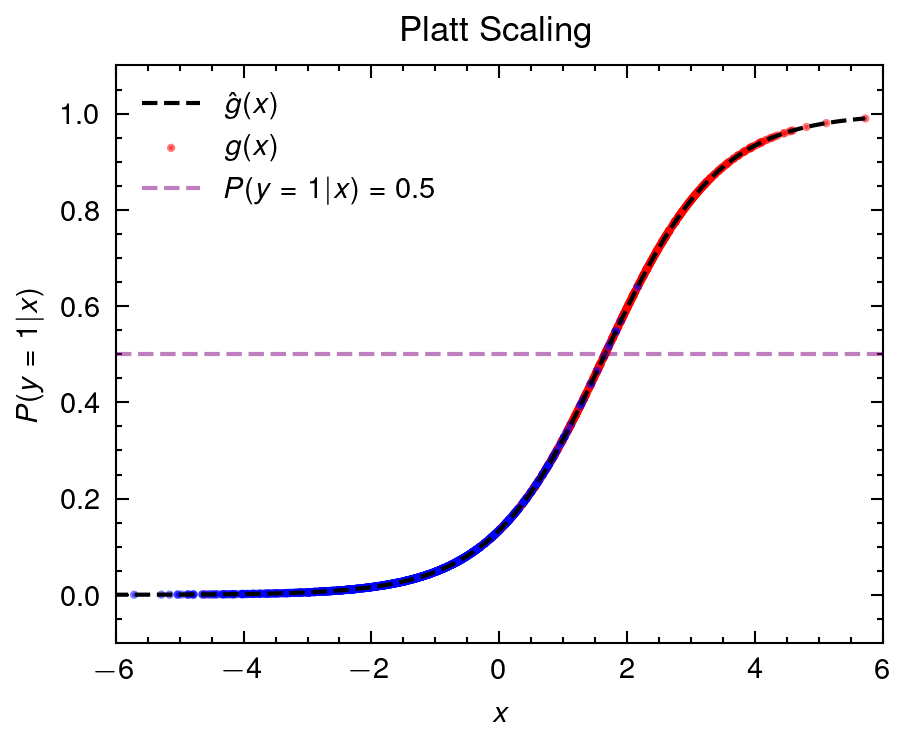
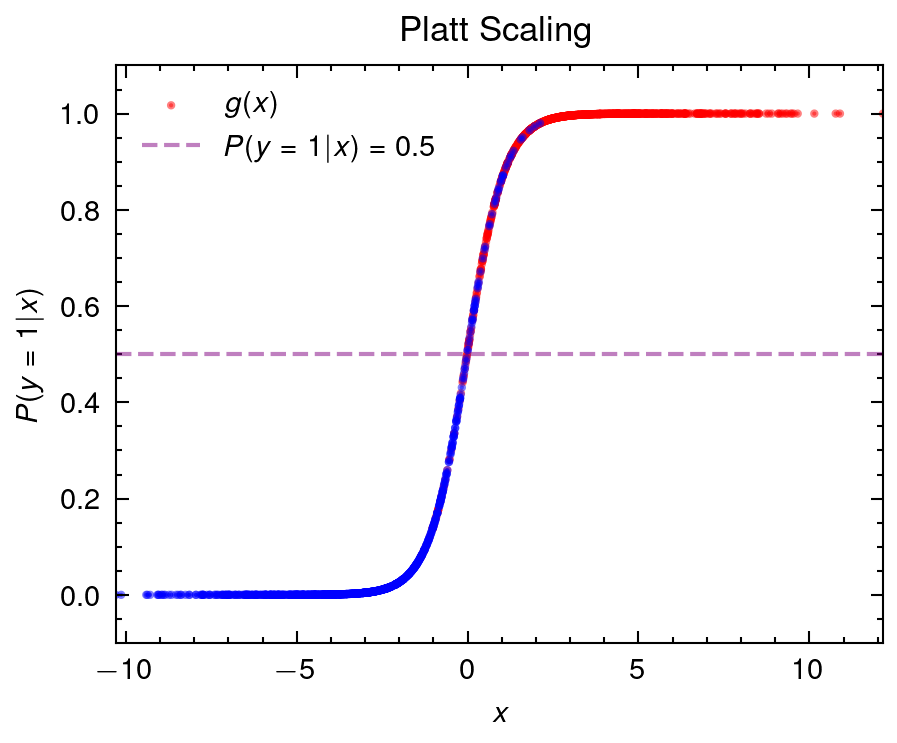
Platt Scaling fix

diff --git a/Machine_Learning/svm/src/main.rs b/Machine_Learning/svm/src/main.rs
@@ -4,8 +4,9 @@ const N: usize = 1000;
 
 #[allow(non_snake_case)]
 fn main() {
-    let n1_x = Normal(2f64, 1f64);
-    let n1_y = Normal(1f64, 1.5f64);
+    // Generate data
+    let n1_x = Normal(1f64, 1f64);
+    let n1_y = Normal(2f64, 1.5f64);
     let n2_x = Normal(-1f64, 1f64);
     let n2_y = Normal(-2f64, 1.5f64);
 
@@ -22,17 +23,28 @@ fn main() {
     let X = rbind(X1, X2);
     let y = concat(&c1, &c2);
 
-    let mut svm = SVM::new(1e-3, 1e-2, 1000);
+    // SVM
+    let mut svm = SVM::new(1e-4, 1e-2, 1000);
+
+    // Base line score
     let base_pred = svm.baseline(&X);
     let base_cm = ConfusionMatrix::new(&y, &base_pred);
     base_cm.summary();
 
+    // Train
     svm.fit(&X, &y);
+
+    // Predict
     let y_hat = svm.predict(&X);
+    let f_hat = svm.compute_decision_values(&X);
+
+    // Score
     let cm = ConfusionMatrix::new(&y, &y_hat);
     cm.summary();
 
-    let AB = platt_scaling(&y, &y_hat);
+    // Platt Scaling
+    let AB = platt_scaling(&y, &f_hat);
+    let z  = sigmoid(&f_hat, AB.0, AB.1);
 
     let mut df = DataFrame::new(vec![]);
     df.push("x", Series::new(X.col(0)));
@@ -41,8 +53,8 @@ fn main() {
     df.push("g_hat", Series::new(y_hat));
     df.push("w", Series::new(svm.w.clone()));
     df.push("b", Series::new(vec![svm.b]));
-    df.push("A", Series::new(vec![AB.0]));
-    df.push("B", Series::new(vec![AB.1]));
+    df.push("f_hat", Series::new(f_hat));
+    df.push("z", Series::new(z));
 
     df.print();
 
@@ -216,13 +228,13 @@ impl ConfusionMatrix {
 }
 
 #[allow(non_snake_case)]
-fn platt_scaling(y: &Vec<f64>, y_hat: &Vec<f64>) -> (f64, f64) {
+fn platt_scaling(y: &Vec<f64>, f_hat: &Vec<f64>) -> (f64, f64) {
     let N_p = y.iter().filter(|&&x| x == 1f64).count();
     let N_n = y.iter().filter(|&&x| x == -1f64).count();
-    let t_p = (1f64 + N_p as f64) / (2f64 * N_p as f64);
-    let t_n = 1f64 / (2f64 + 2f64 * N_n as f64);
+    let t_p = (1f64 + N_p as f64) / (2f64 + N_p as f64);
+    let t_n = 1f64 / (2f64 + N_n as f64);
 
-    let x = y_hat.clone();
+    let x = f_hat.clone();
     let y = y.clone().fmap(|t| if t == 1f64 { t_p } else { t_n });
 
     let data = matrix(concat(&x, &y), x.len(), 2, Col);
@@ -231,7 +243,7 @@ fn platt_scaling(y: &Vec<f64>, y_hat: &Vec<f64>) -> (f64, f64) {
     let AB = opt.set_init_param(vec![1f64, 1f64])
         .set_max_iter(100)
         .set_method(LevenbergMarquardt)
-        .set_lambda_init(1e-4)
+        .set_lambda_init(1e-3)
         .set_lambda_max(1e+3)
         .optimize();
     (AB[0], AB[1])
@@ -242,7 +254,11 @@ fn logistic_transform(x: &Vec<f64>, AB: Vec<AD>) -> Option<Vec<AD>> {
     Some(
         x.clone().into_iter()
             .map(|t| AD1(t, 0f64))
-            .map(|t| 1f64 / (AB[0] * t + AB[1]).exp())
+            .map(|t| 1f64 / (1f64 + (AB[0] * t + AB[1]).exp()))
             .collect()
     )
+}
+
+fn sigmoid(x: &Vec<f64>, A: f64, B: f64) -> Vec<f64> {
+    x.fmap(|t| 1f64 / (1f64 + (A * t + B).exp()))
 }

diff --git a/Machine_Learning/svm/svm_plot.py b/Machine_Learning/svm/svm_plot.py
@@ -13,13 +13,12 @@ g       = df['g']
 g_hat   = df['g_hat']
 w       = df['w']
 b       = df['b']
-A       = df['A'][0]
-B       = df['B'][0]
+f_hat   = df['f_hat']
+z       = df['z']
 
 domain  = np.linspace(x.min(), x.max(), 1000)
 hyper   = -w[0] * domain + b[0]
-platt   = 1 / (1 + np.exp(A * x + B))
-platd   = 1 / (1 + np.exp(A * domain + B))
+platt   = z
 
 
 # Plot params
@@ -49,10 +48,10 @@ with plt.style.context(["science", "nature"]):
     ax.autoscale(tight=True)
     ax.set(**pparam)
     ax.set(title="Platt Scaling")
+    ax.set(xlim=(f_hat.min(), f_hat.max()))
     ax.set(ylim=(-0.1, 1.1))
     ax.set(ylabel=r'$P(y=1|x)$')
-    ax.plot(domain, platd, 'k--', label=r'$\hat{g}(x)$')
-    ax.scatter(x, platt, c=g, cmap='bwr', s=1, alpha=0.5, label=r'$g(x)$')
+    ax.scatter(f_hat, platt, c=g, cmap='bwr', s=1, alpha=0.5, label=r'$g(x)$')
     ax.axhline(0.5, color='purple', linestyle='--', alpha=0.5, label=r'$P(y=1|x)=0.5$')
     ax.legend()
     fig.savefig('platt.png', dpi=300, bbox_inches='tight')
